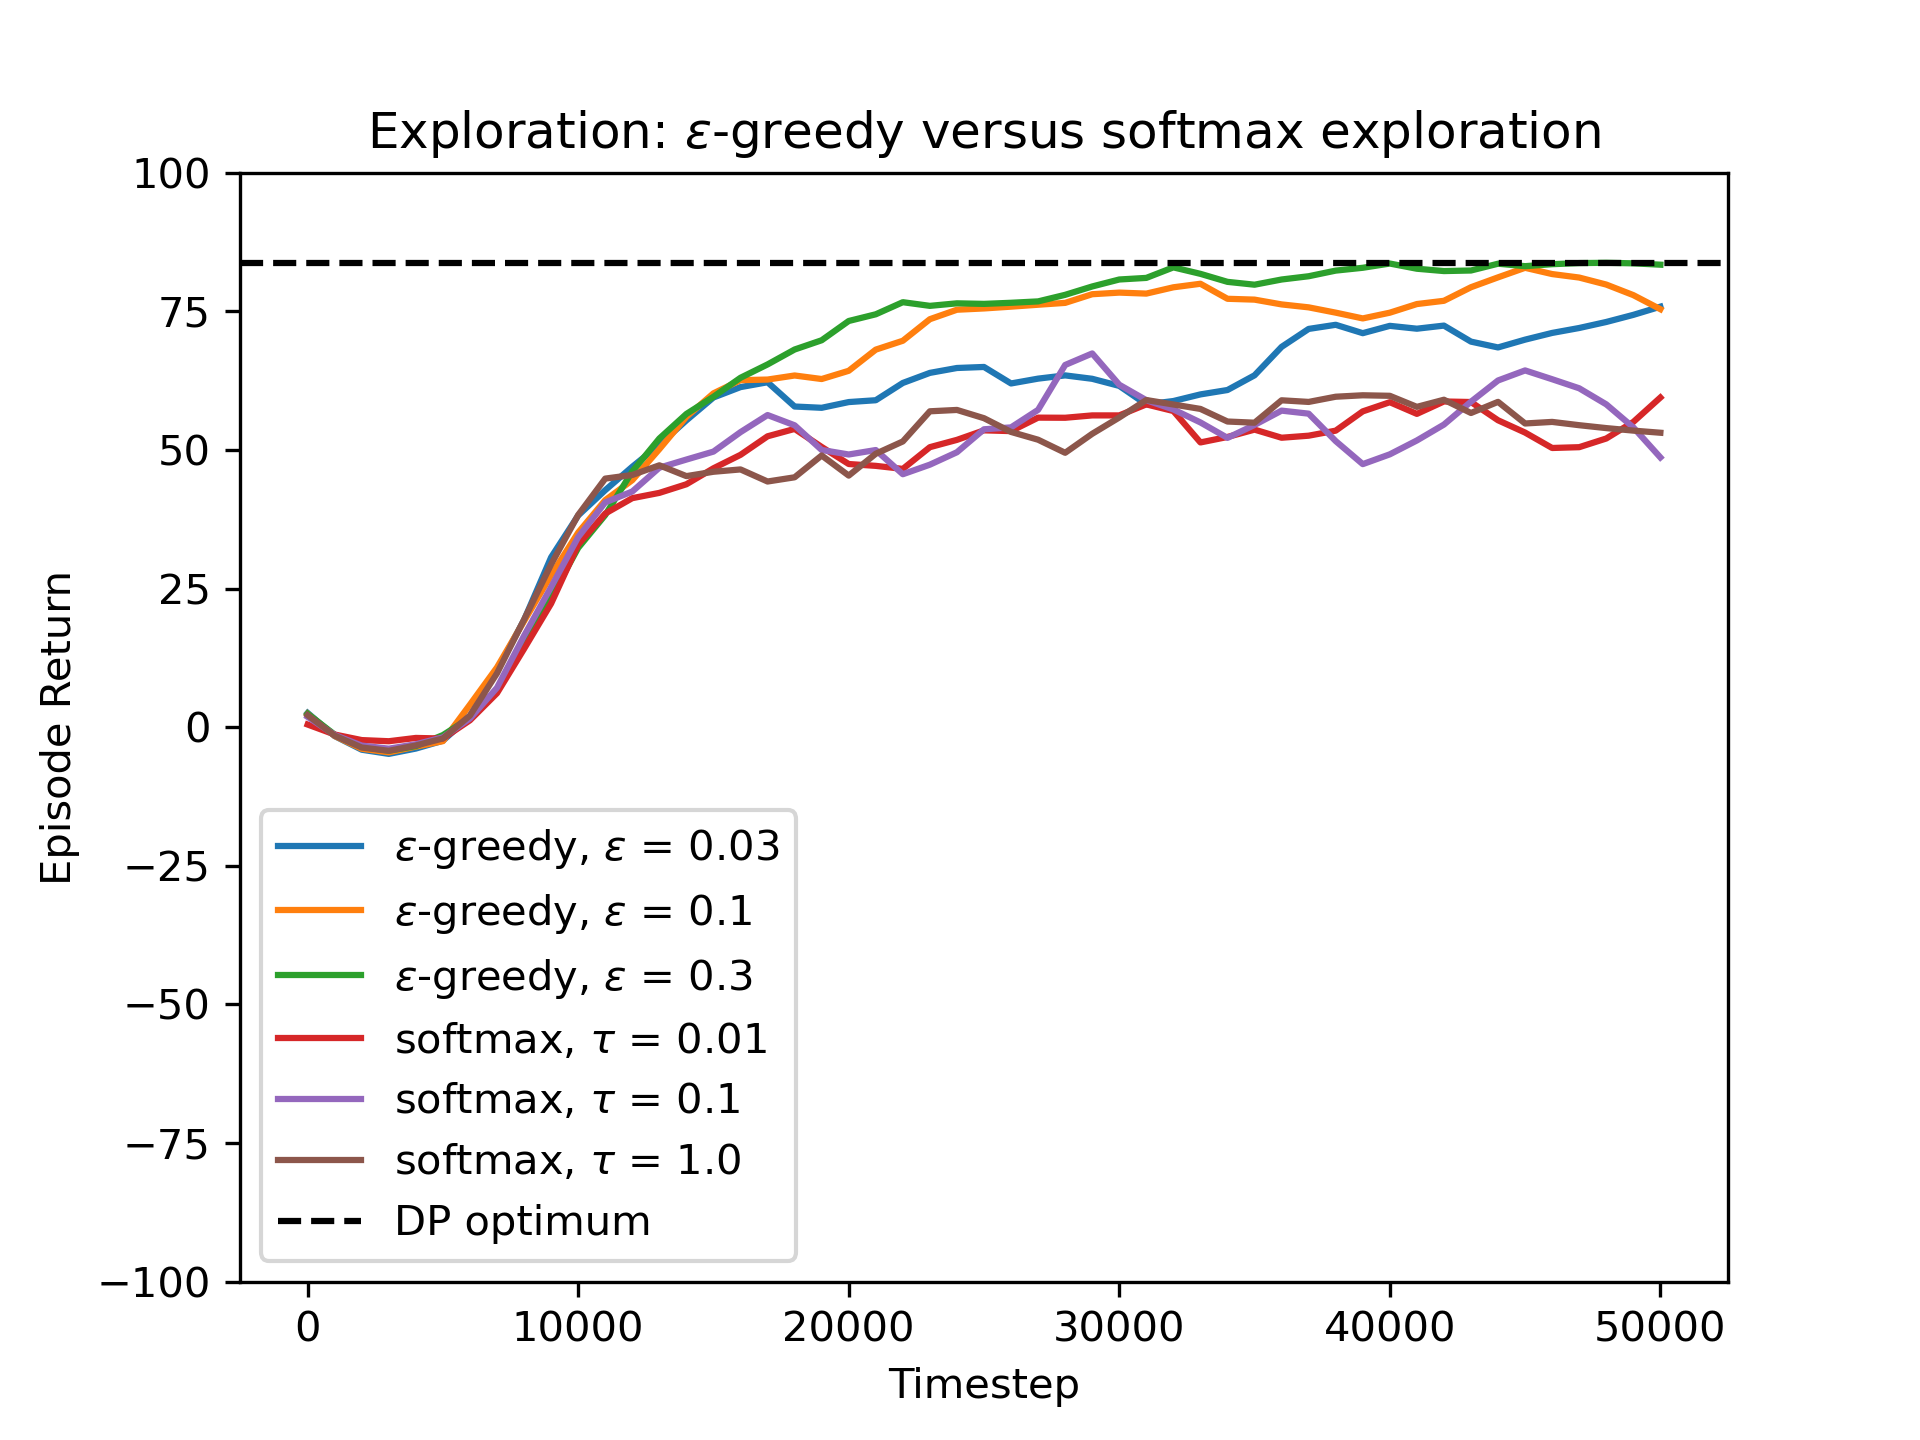
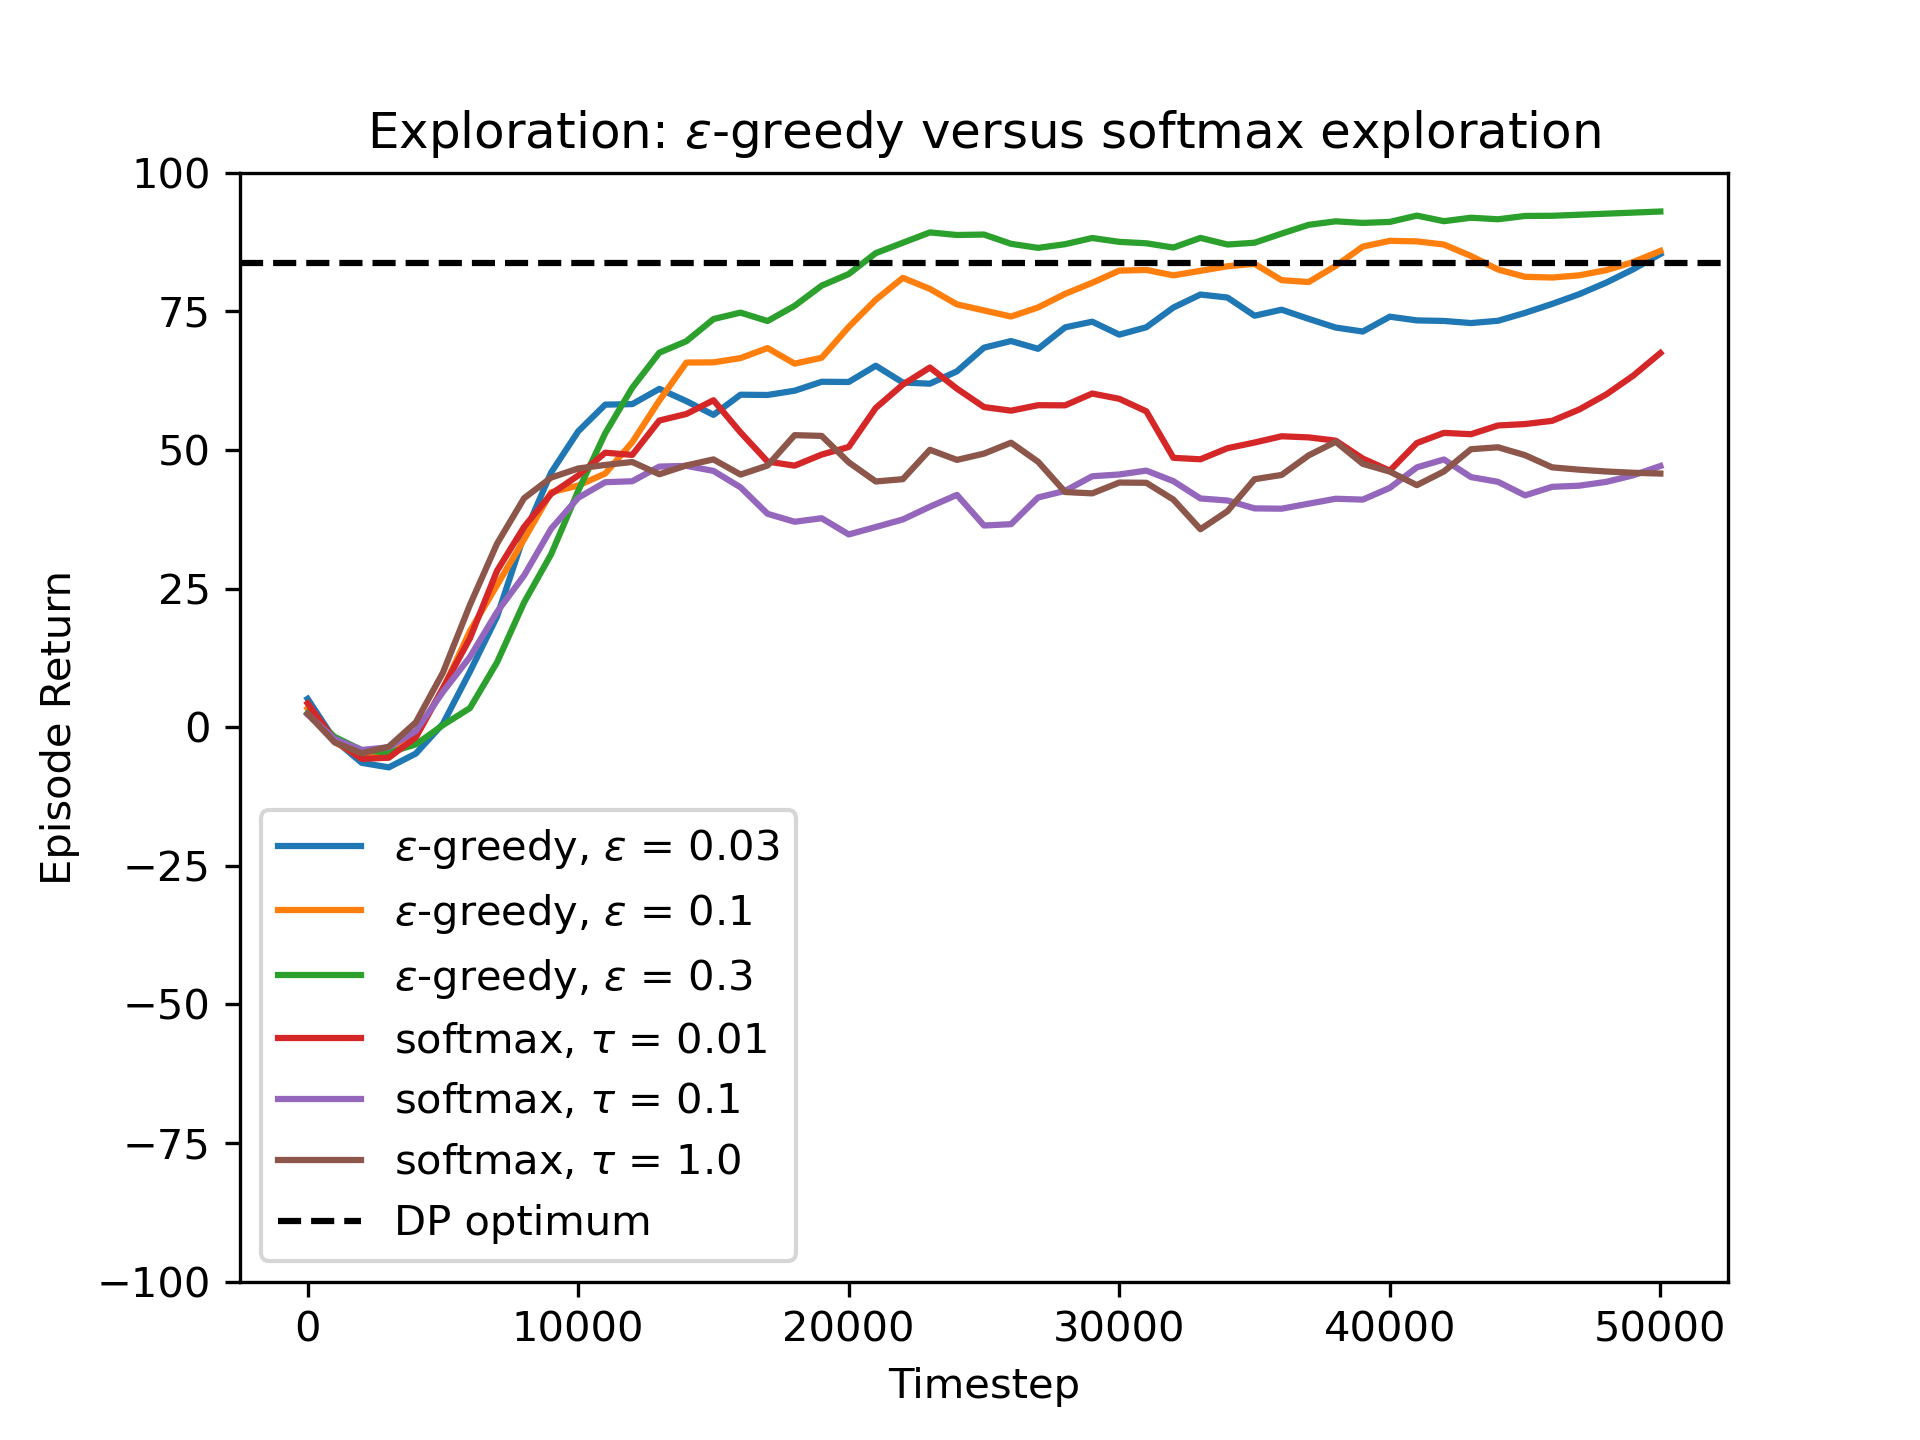
modified:   Q_learning.py 	modified:   exploration.png

Changed region(s): [[0.1562, 0.125, 0.875, 0.5312]]

diff --git a/Q_learning.py b/Q_learning.py
@@ -36,7 +36,7 @@ def q_learning(n_timesteps, learning_rate, gamma, policy='egreedy', epsilon=None
         s_next, r, done = eval_env.step(a)
         agent.update(s,a,r,s_next,done)
         if done:
-            env.reset()
+            s = env.reset()
         else:
             s = s_next
         if i%eval_interval == 0:
